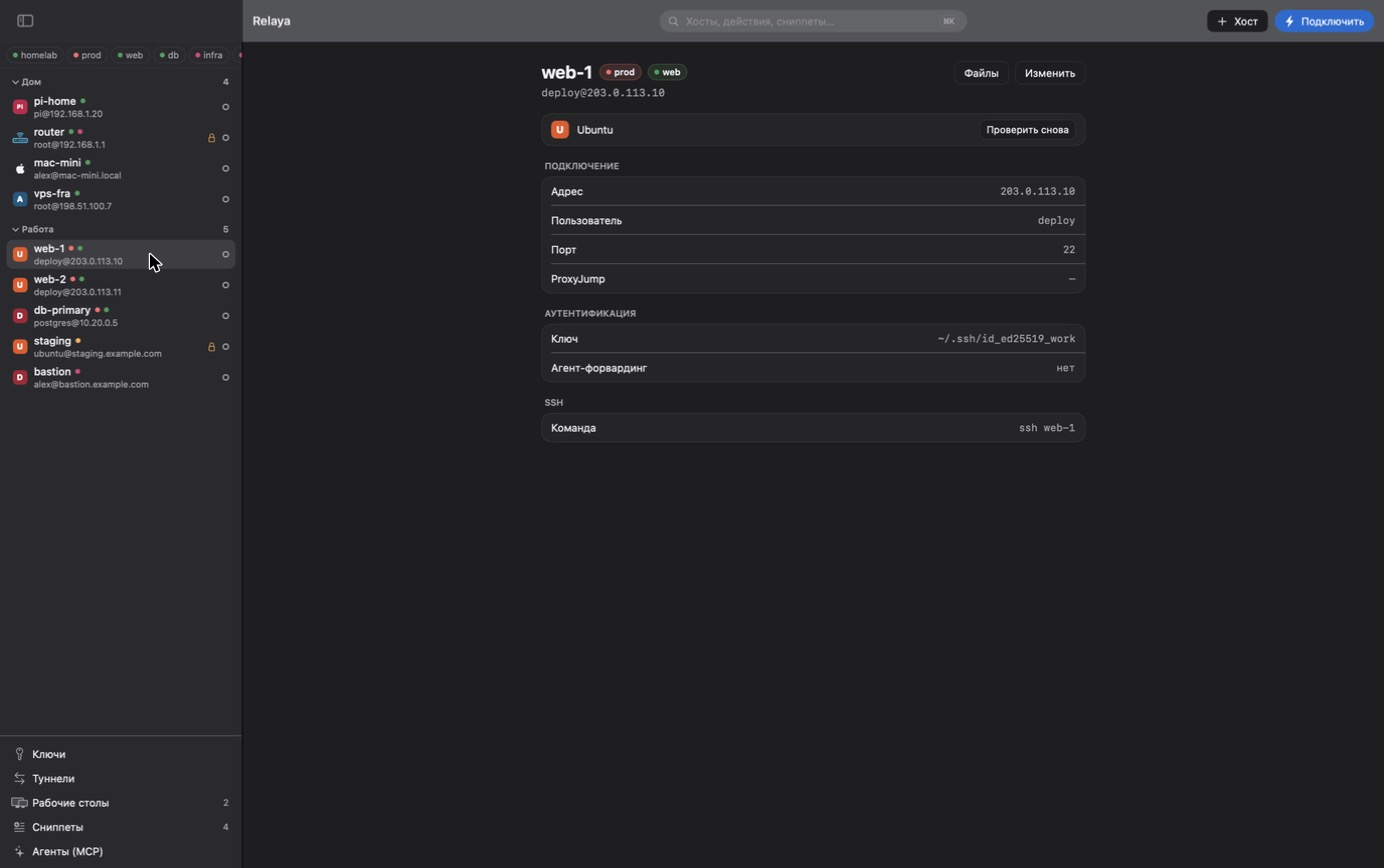
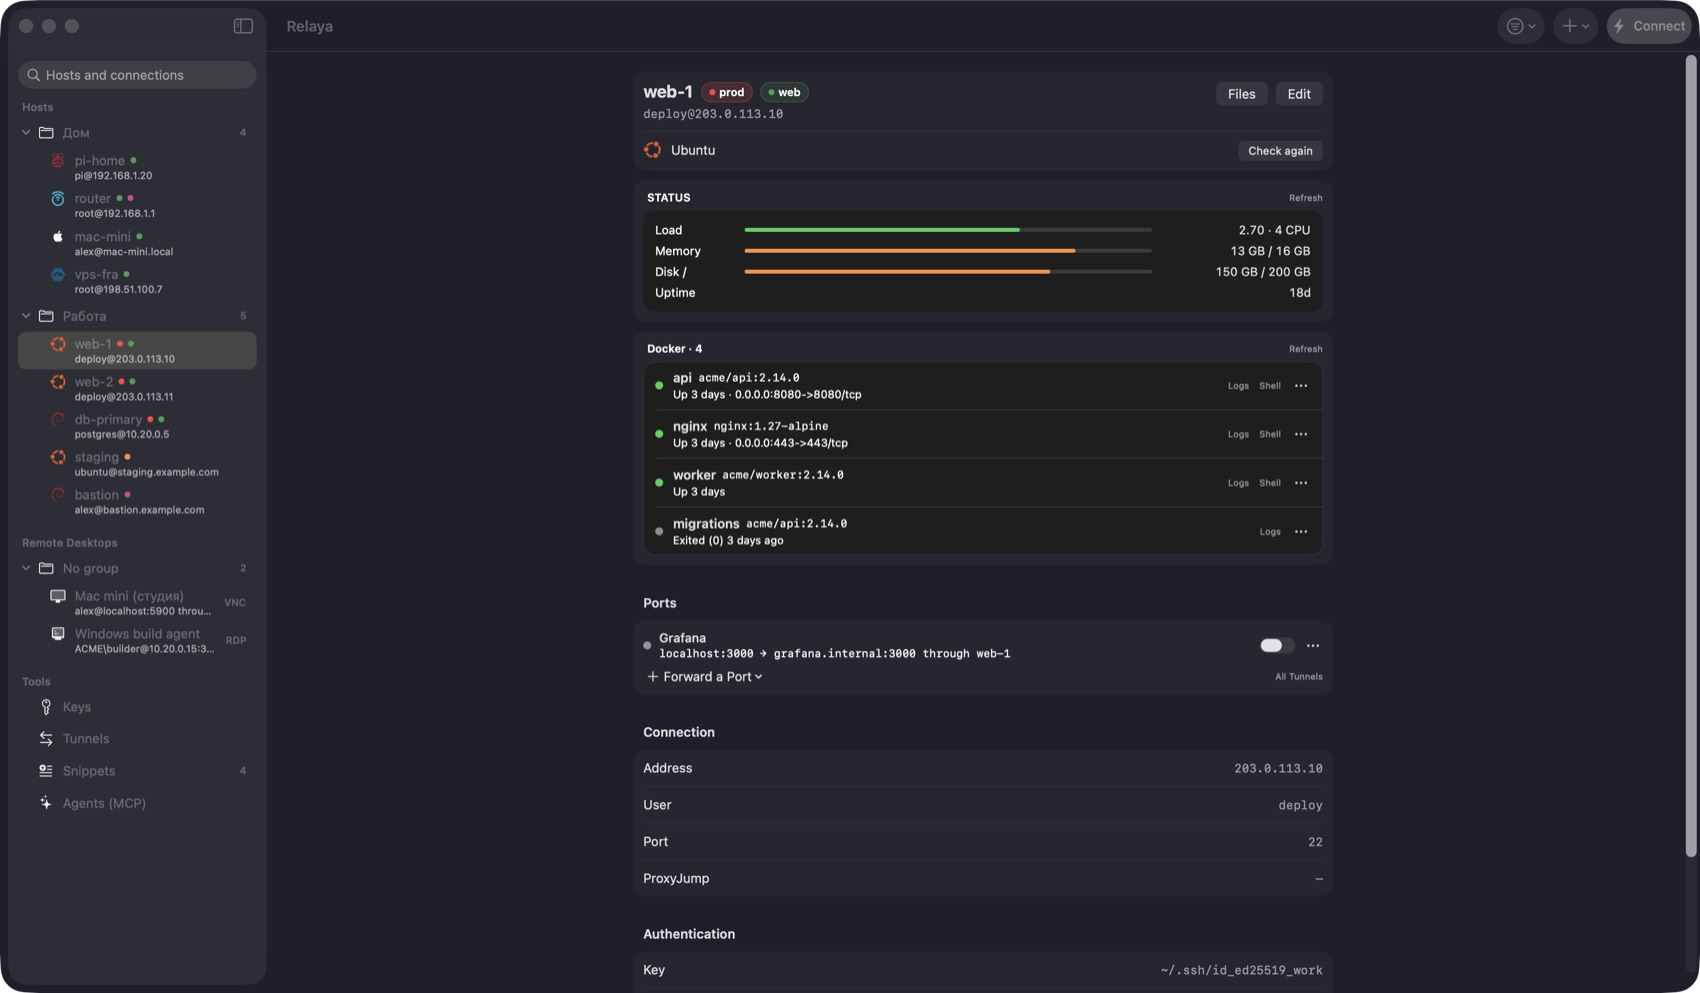
README: full feature list, new screenshots, drop roadmap

diff --git a/README.md b/README.md
@@ -25,51 +25,61 @@ Everything you set up in Relaya keeps working from Terminal, VS Code, git, Ansib
 
 ## Screenshots
 
-<p align="center"><img src="docs/screenshots/host.jpg" width="820" alt="Host card with OS, tags and connection details"></p>
+<p align="center"><img src="docs/screenshots/tiles.jpg" width="860" alt="Terminals side by side as tiles over a shared background, Liquid Glass sidebar"></p>
 
-| Terminal | Keys |
+| Host card | Keys |
 |---|---|
-| <img src="docs/screenshots/terminal.jpg" alt="Terminal tab with OS actions"> | <img src="docs/screenshots/keys.jpg" alt="Keys screen with fingerprints"> |
-| **Remote desktops (VNC / RDP)** | **Snippets** |
-| <img src="docs/screenshots/desktops.jpg" alt="VNC and RDP connections"> | <img src="docs/screenshots/snippets.jpg" alt="Snippets with variables"> |
+| <img src="docs/screenshots/host.jpg" alt="Host card with live status, ports and connection details"> | <img src="docs/screenshots/keys.jpg" alt="Keys screen with fingerprints"> |
+| **Snippets** | **Appearance** |
+| <img src="docs/screenshots/snippets.jpg" alt="Snippets with variables"> | <img src="docs/screenshots/settings.jpg" alt="Appearance settings: window style, Liquid Glass, background image"> |
 
 <sub>All hosts and keys above are fictional — screenshots are taken with `Relaya --demo`.</sub>
 
 ## Features
 
 **Hosts**
-- Add, edit, duplicate and delete hosts directly in `~/.ssh/config`.
-- Every change is shown as a diff first and backed up to `config.bak`. Comments and directives Relaya doesn't manage are preserved.
-- Groups and free-form tags, stored as a comment above the host (`# relaya: group=work tags=prod,db`) — ssh ignores it. Filter by tag, search across hosts.
+- Add, edit, duplicate and delete hosts directly in `~/.ssh/config`. Every change is shown as a diff first and backed up to `config.bak`; comments and directives Relaya doesn't manage are preserved.
+- Groups and free-form tags, stored as a comment above the host (`# relaya: group=work tags=prod,db`) — ssh ignores it.
+- A Finder-style sidebar: Hosts, Remote Desktops and Tools sections with collapsible groups, search and a tag filter. Git-hosting entries (GitHub, GitLab, `User git`…) are kept out of the host list.
+- A **Host** menu in the menu bar with every action for the selected host.
 
 **Passwords & keys**
-- Passwords are saved in Keychain and typed in automatically when the server asks. They never appear in process arguments or environment variables.
-- **"Set up key login" wizard**: after a password login, Relaya offers to generate an ed25519 key, shows every change up front, installs the key on the server, verifies a passwordless login — and only then updates your config.
-- **Keys screen**: all key pairs in `~/.ssh` with fingerprints, agent status and the hosts using them. Deploy a key to several hosts at once, add keys to ssh-agent, store passphrases in Keychain (`UseKeychain`).
+- Passwords live in Keychain and are typed in automatically when the server asks — after **Touch ID** (or your Mac password). They never appear in process arguments or environment variables.
+- **"Set up key login" wizard**: generates an ed25519 key, installs it on the server (OpenWrt/Dropbear too), verifies a passwordless login and only then updates your config.
+- **Keys screen**: every key pair in `~/.ssh` with fingerprints, agent status and the hosts using it.
 
 **Terminal**
-- Tabs, host-key fingerprint check on first connect, a loud warning when a server's key changes.
-- Auto-reconnect after a dropped connection, find in terminal (⌘F).
-- Light/dark/system appearance, terminal color schemes, font settings.
+- Tabs, host-key fingerprint check on first connect, a loud warning when a server's key changes, auto-reconnect, find (⌘F), output highlighting.
+- **Tiles**: drag a tab onto the edge of another terminal and it docks there; drag it to the edge of the window to span the full width or height. Splits are resizable and never overlap. SFTP tabs tile too. Each tile shows where it's connected.
+- **Broadcast input**: type into several terminals at once (passwords and snippets are never broadcast).
+- **tmux sessions**: reconnect straight back into the same session. Closing a tab ends it; after a dropped connection the server closes it by itself after an idle timeout (1 hour by default), so sessions never pile up. Turn tmux on or off in an open tab, keep a session running on purpose for 24 hours, see and clean up sessions in the host card.
 
-**Files, tunnels, snippets**
-- SFTP browser: navigate, download, upload (drag files from Finder), create folders, delete.
-- Port forwarding: local (`-L`), remote (`-R`) and SOCKS (`-D`) tunnels with start/stop and auto-start.
+**Files**
+- SFTP browser with a transfer queue: progress, speed, cancel and retry. Uploads go to a temporary file first, so a broken transfer never corrupts the original.
+- **Open in Editor**: edit a remote file in your default editor — every save is uploaded back.
+- Drag & drop from Finder, rename, new folder, delete, keyboard shortcuts.
+
+**Host card**
+- Live status: load, memory, disk, uptime — in one of four styles (tiles, compact, pixel, console).
+- **Docker**: containers with status and ports; logs, a shell inside, start/stop/restart.
+- Port forwarding presets and OS-specific actions.
+- Server OS detection with distro logos (Ubuntu, Debian, Proxmox VE, OpenWrt, Fedora, Arch, Alpine, Mint, Kali and more).
+
+**Tunnels & snippets**
+- Local (`-L`), remote (`-R`) and SOCKS (`-D`) tunnels with start/stop, auto-start and a menu bar icon.
 - Snippets with `{{variables}}`: insert with ⇧⌘P or run on several hosts at once.
 
 **Remote desktops**
-- VNC opens in the built-in macOS Screen Sharing, RDP in Microsoft's free Windows App — optionally through an SSH tunnel.
+- Built-in **VNC** and **RDP** (NLA) viewers in a tab or a separate window, optionally through an SSH tunnel; passwords in Keychain. RDP resolution adapts to the window on the fly.
 
 **AI agents (MCP)**
 - `Relaya --mcp` is a local MCP server for Claude, Cursor and other clients: `list_hosts`, `run_command`, `read_file`.
-- Per-host access: off, read-only (safe commands only), confirm each command in a system dialog, or trusted. Every call is logged.
-- Agents never see your keys — commands run through your own ssh.
+- Per-host access: off, read-only, confirm each command, or trusted. Confirmation is a **Touch ID** prompt showing the exact command. Agents never see your keys.
 
-**Server awareness**
-- Detects the server OS (Ubuntu, Debian, OpenWrt, macOS…), shows its icon and offers OS-specific actions.
-
-**English and Russian**
-- The UI follows the macOS language; switch it in Settings → Connections → Language.
+**Looks**
+- Relaya themes or the native macOS style, **Liquid Glass** on macOS 26, light/dark/system.
+- A background image shared by the whole workspace — tiles, terminals and panels show it through, with adjustable opacity.
+- Terminal color schemes and fonts. English and Russian UI.
 
 **Plain system ssh**
 - Sessions run `/usr/bin/ssh`, so ProxyJump, ssh-agent, FIDO keys and every config option behave exactly like in Terminal.app.
@@ -78,13 +88,13 @@ Everything you set up in Relaya keeps working from Terminal, VS Code, git, Ansib
 
 1. Download `Relaya-vX.Y.Z.zip` from [Releases](https://github.com/hvckfy/Relaya/releases/latest).
 2. Unzip and move `Relaya.app` to `/Applications`.
-3. Builds are not notarized yet, so remove the quarantine flag once:
+3. Builds are signed with a persistent self-signed certificate (Keychain permissions survive updates) but not notarized, so remove the quarantine flag once:
 
 ```bash
 xattr -dr com.apple.quarantine /Applications/Relaya.app
 ```
 
-Requires macOS 14 Sonoma or later. Universal binary (Apple Silicon and Intel).
+Requires macOS 14 Sonoma or later; Liquid Glass needs macOS 26. Universal binary (Apple Silicon and Intel).
 
 ## Keyboard shortcuts
 
@@ -96,6 +106,8 @@ Requires macOS 14 Sonoma or later. Universal binary (Apple Silicon and Intel).
 | Switch tab | ⌘1 … ⌘9 |
 | Reconnect | ⌘R |
 | Find in terminal | ⌘F |
+| Edit / duplicate host | ⌘E / ⌘D |
+| Open files (SFTP) | ⇧⌘O |
 | Snippets | ⇧⌘P |
 | Reload `~/.ssh/config` | ⇧⌘R |
 | Settings | ⌘, |
@@ -105,7 +117,8 @@ Requires macOS 14 Sonoma or later. Universal binary (Apple Silicon and Intel).
 - **Nothing is written without confirmation.** Config edits, new key files and server changes are previewed as a diff first.
 - **Secrets stay in Keychain.** For non-interactive operations (e.g. installing a key on a server) ssh receives the secret through an askpass helper — Relaya itself, launched by ssh, reads it from Keychain on demand.
 - **Known limitation:** `ssh-keygen` only accepts a new key's passphrase as an argument, so it is briefly visible in the process list while the key is generated.
-- **Relaya never edits `sshd_config`.** The wizard shows the command to disable password login; you run it yourself when ready.
+- **Server changes only after confirmation.** Disabling password login, for example, asks first, shows the command and warns if the host has no key; OS actions are inserted into the terminal without Enter.
+- **AI agents need your approval.** On hosts in "confirm" mode every command is shown in a Touch ID prompt.
 
 ## Building from source
 
@@ -125,15 +138,6 @@ scripts/bundle.sh 0.1.0
 
 The result is `build/Relaya.app`. Releases are built by GitHub Actions on every `v*` tag.
 
-## Roadmap
-
-- [x] **v0.1** — hosts, groups, tags, Keychain, key wizard, keys screen, themes
-- [x] **v0.2** — SFTP browser, port forwarding, snippets
-- [x] **v0.3** — VNC (via macOS Screen Sharing)
-- [x] **v0.4** — RDP (via Windows App)
-- [x] **v0.5** — local MCP server so AI agents can work with your servers safely
-- [ ] Next — signed & notarized builds, Homebrew cask, built-in VNC/RDP viewer, Relaya Cloud
-
 See [docs/UI_SPEC.md](docs/UI_SPEC.md) for the full UI specification (in Russian).
 
 ## Contributing
@@ -144,4 +148,4 @@ Issues and pull requests are welcome. Please keep the core idea intact: `~/.ssh`
 
 [MIT](LICENSE) © 2026 hvckfy and Relaya contributors.
 
-Relaya uses [SwiftTerm](https://github.com/migueldeicaza/SwiftTerm) (MIT).
+Relaya uses [SwiftTerm](https://github.com/migueldeicaza/SwiftTerm), [RoyalVNCKit](https://github.com/royalapplications/royalvnc) and [RDPKit](https://github.com/steelbrain/RDPKit) (MIT). Distro logos are from [Simple Icons](https://simpleicons.org) (CC0); they are trademarks of their owners.
